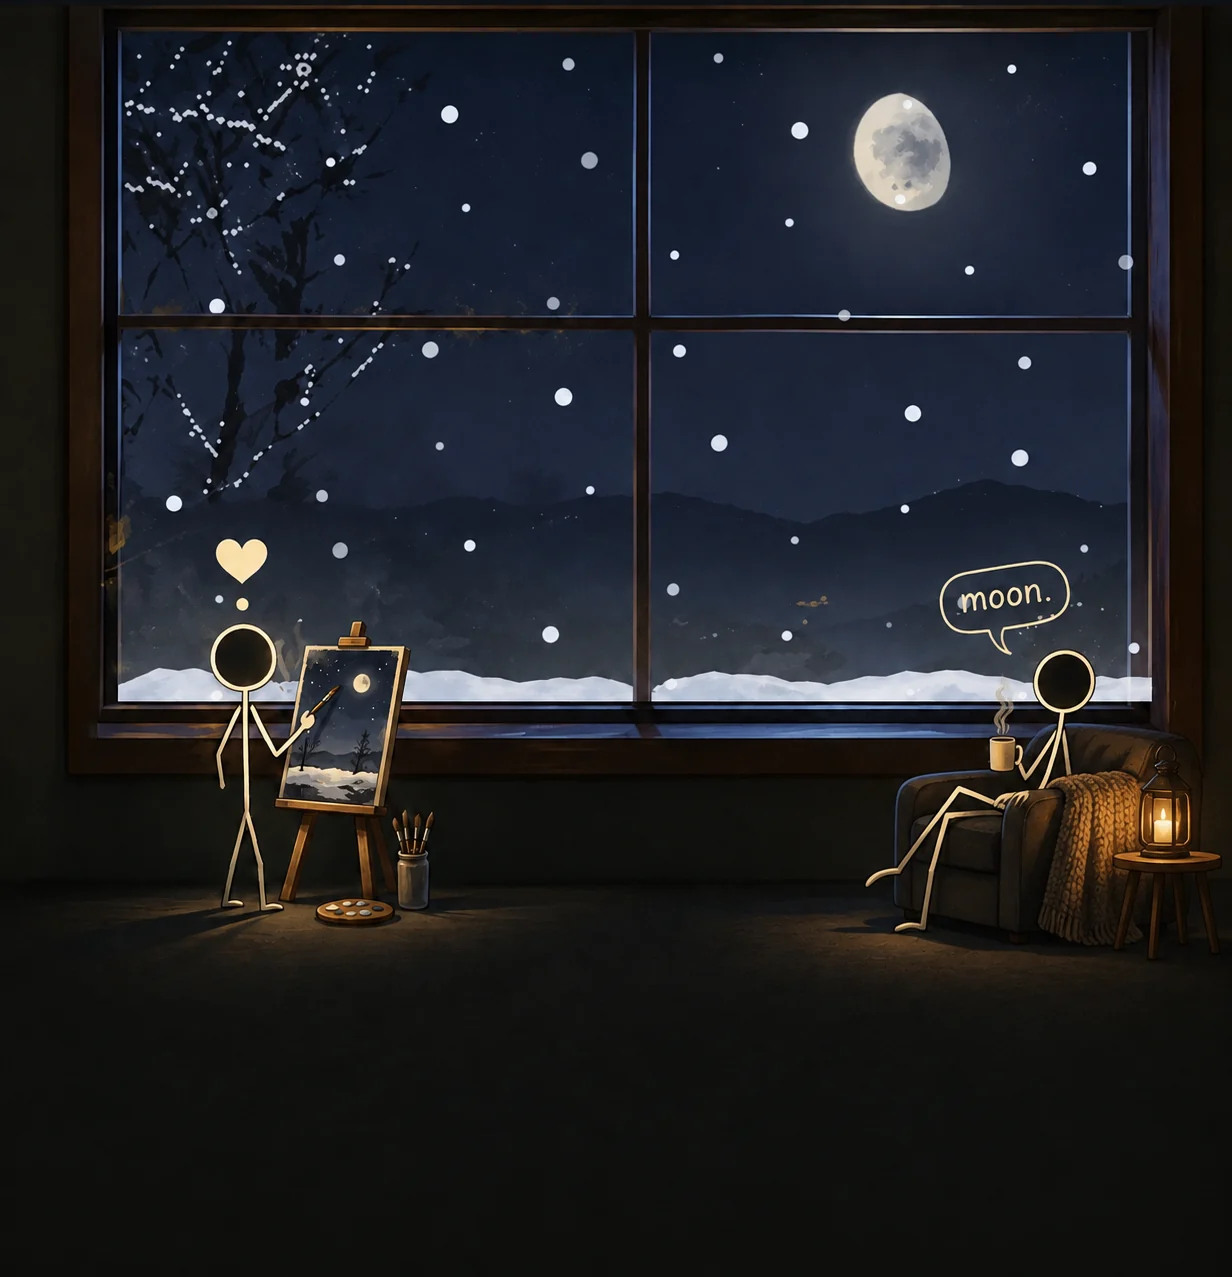
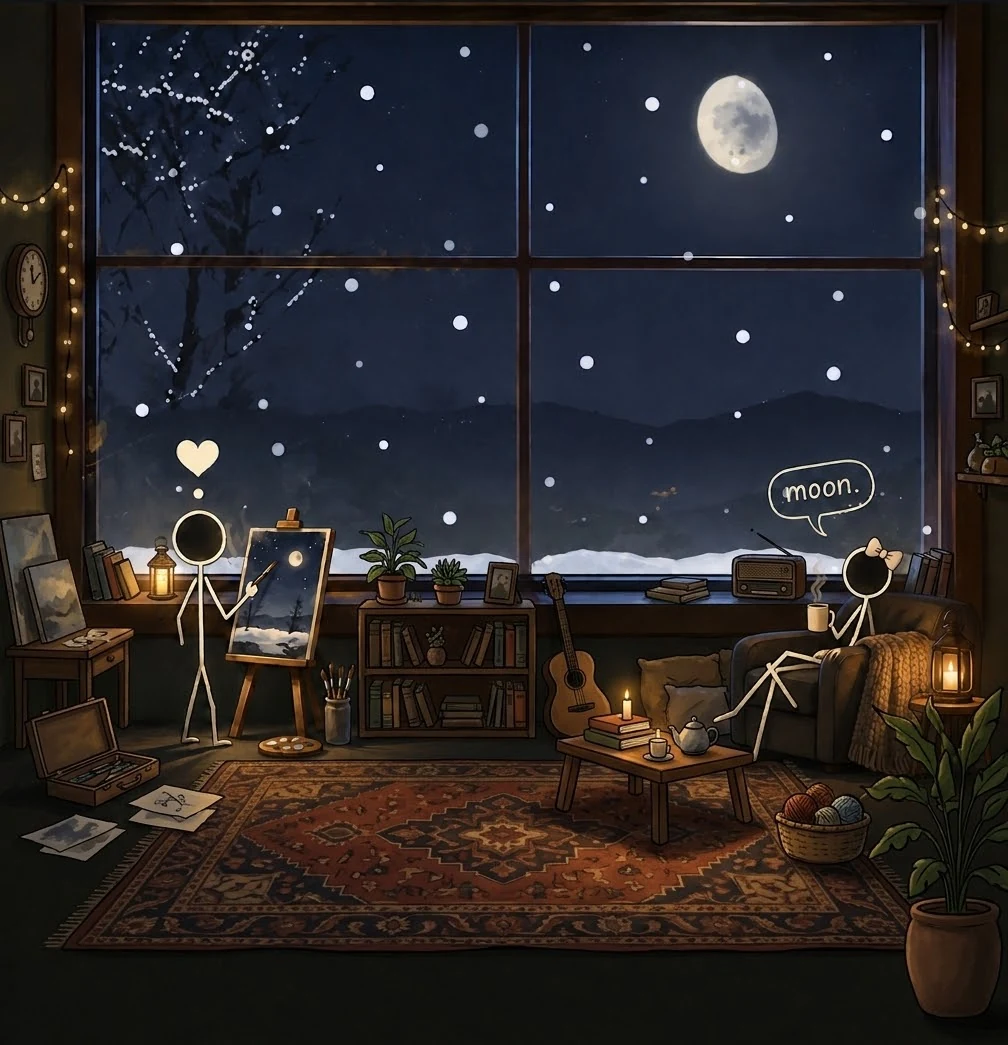
New login background, compact two-column form on wide screens

diff --git a/public/style.css b/public/style.css
@@ -37,6 +37,13 @@ input,select{font-family:inherit}
 .row input{width:5.8rem;flex:none;text-transform:uppercase;text-align:center;letter-spacing:2px;padding-inline:.4rem}
 .error{color:#ff8fa8;font-weight:600;font-size:.9rem;text-align:center}
 @media (max-height:640px){.home-card h1{display:none}}
+@media (min-aspect-ratio:9/10){
+  .home-card{width:min(21rem,86vw);grid-template-columns:1fr 1fr;padding-top:.9rem}
+  .home-card h1{font-size:1rem}
+  .home-card #btnQuick,.home-card #btnCreate{grid-column:auto}
+  .home-card #codeInput{grid-column:auto}
+  .home-card #btnJoin{grid-column:auto}
+}
 @media (max-aspect-ratio:9/10){
   #home{--w:min(100vw,calc(100dvh * .9647));--h:calc(var(--w) * 1.0366);--t:max(0px,calc((100dvh - var(--h) - 10rem) / 2))}
   #home .scene{top:var(--t)}

diff --git a/public/index.html b/public/index.html
@@ -11,7 +11,7 @@
 
 <!-- ورود -->
 <section id="home" class="screen">
-  <img class="scene" src="/login.webp" alt="" width="1232" height="1277">
+  <img class="scene" src="/login.webp" alt="" width="1008" height="1045">
   <div class="home-card">
     <h1>نقاشی و حدس</h1>
     <div id="joinHint" class="join-hint hidden"></div>
